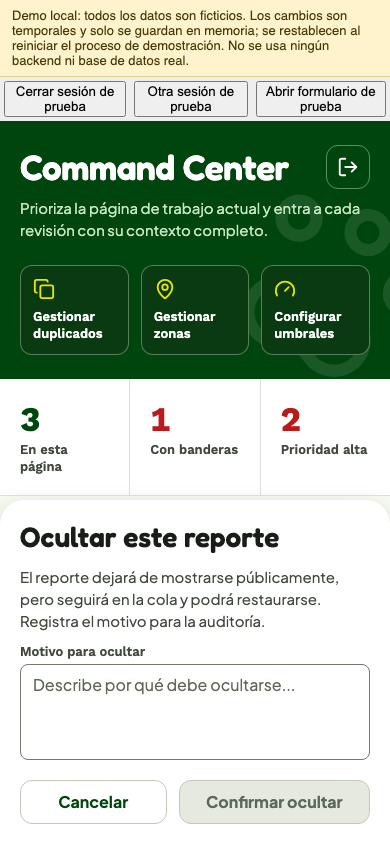
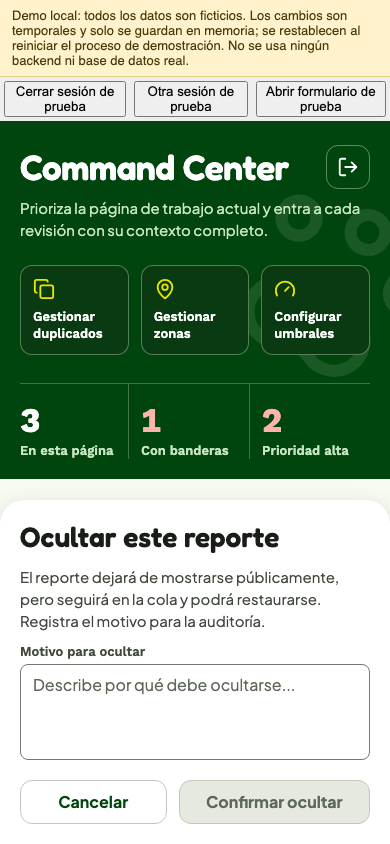
style(design): TD-134 Command Center: métricas dentro del encabezado verde y la cola empieza en zona clara

Changed region(s): [[0.0, 0.4313, 1.0, 0.5853]]

diff --git a/screens/CommandCenterScreen.js b/screens/CommandCenterScreen.js
@@ -175,13 +175,11 @@ export default function CommandCenterScreen({ accessToken, onOpenConfiguration, 
               {onOpenConfiguration ? <Tool icon="gauge" label={t('configuration.open')} onPress={onOpenConfiguration} /> : null}
             </View>
           ) : null}
-        </View>
-      </View>
-      <View style={styles.metricsBand}>
-        <View style={styles.metricsRow}>
-          <Metric label={t('moderation.onPage')} value={summary.total} />
-          <Metric label={t('moderation.flagged')} value={summary.flagged} alert />
-          <Metric label={t('moderation.urgent')} value={summary.urgent} alert last />
+          <View style={styles.metricsRow}>
+            <Metric label={t('moderation.onPage')} value={summary.total} />
+            <Metric label={t('moderation.flagged')} value={summary.flagged} alert />
+            <Metric label={t('moderation.urgent')} value={summary.urgent} alert last />
+          </View>
         </View>
       </View>
       <View style={styles.queueIntro}>
@@ -276,7 +274,7 @@ const styles = StyleSheet.create({
   content: { flexGrow: 1, backgroundColor: colors.background, paddingBottom: 32 },
   hero: { backgroundColor: colors.primary, overflow: 'hidden' },
   bigPaw: { position: 'absolute', right: -44, top: 56, opacity: 0.1, transform: [{ rotate: '-18deg' }] },
-  heroInner: { width: '100%', maxWidth: 960, alignSelf: 'center', paddingHorizontal: layout.margin, paddingTop: spacing.sm, paddingBottom: spacing.xxl, gap: spacing.sm },
+  heroInner: { width: '100%', maxWidth: 960, alignSelf: 'center', paddingHorizontal: layout.margin, paddingTop: spacing.sm, paddingBottom: spacing.xl, gap: spacing.sm },
   titleRow: { flexDirection: 'row', alignItems: 'center', justifyContent: 'space-between', gap: spacing.md, marginTop: spacing.lg },
   logout: { width: layout.minTouch, height: layout.minTouch, borderRadius: 12, alignItems: 'center', justifyContent: 'center', borderWidth: 1, borderColor: 'rgba(201,230,196,0.45)' },
   title: { flex: 1, fontFamily: fontFamily.display, fontSize: 35, lineHeight: 42, letterSpacing: -0.4, color: colors.onPrimary },
@@ -284,14 +282,13 @@ const styles = StyleSheet.create({
   tools: { flexDirection: 'row', gap: spacing.md, marginTop: spacing.lg },
   tool: { flex: 1, minHeight: 84, borderRadius: radius.md, borderWidth: 1, borderColor: 'rgba(201,230,196,0.4)', backgroundColor: colors.forestField, padding: spacing.md, gap: spacing.sm, justifyContent: 'space-between' },
   toolText: { fontFamily: fontFamily.label, fontSize: 13, lineHeight: 17, color: colors.onPrimary },
-  metricsBand: { backgroundColor: colors.surface, borderBottomWidth: 1, borderBottomColor: colors.border },
-  metricsRow: { flexDirection: 'row', width: '100%', maxWidth: 960, alignSelf: 'center' },
-  metric: { flex: 1, gap: 2, paddingVertical: spacing.xl, paddingHorizontal: layout.margin },
-  metricDivider: { borderRightWidth: 1, borderRightColor: colors.border },
-  metricValue: { fontFamily: fontFamily.number, fontVariant: ['tabular-nums'], fontSize: 34, lineHeight: 40, color: colors.primary },
-  metricValueHot: { color: colors.danger },
-  metricLabel: { fontFamily: fontFamily.label, fontSize: 13, lineHeight: 17, color: colors.inkMuted },
-  queueIntro: { marginHorizontal: layout.margin, marginTop: spacing.xxxl, marginBottom: spacing.xl, gap: spacing.sm },
+  metricsRow: { flexDirection: 'row', marginTop: spacing.xl, borderTopWidth: 1, borderTopColor: 'rgba(201,230,196,0.3)' },
+  metric: { flex: 1, gap: 2, paddingTop: spacing.lg, paddingRight: spacing.md },
+  metricDivider: { borderRightWidth: 1, borderRightColor: 'rgba(201,230,196,0.3)', marginRight: spacing.md },
+  metricValue: { fontFamily: fontFamily.number, fontVariant: ['tabular-nums'], fontSize: 34, lineHeight: 40, color: colors.onPrimary },
+  metricValueHot: { color: '#ffb4ab' },
+  metricLabel: { fontFamily: fontFamily.label, fontSize: 13, lineHeight: 17, color: colors.onForest },
+  queueIntro: { marginHorizontal: layout.margin, marginTop: spacing.xxl, marginBottom: spacing.xl, gap: spacing.sm },
   queueTitle: { fontFamily: fontFamily.display, fontSize: 26, lineHeight: 32, color: colors.primary },
   pageScope: { ...type.caption, color: colors.inkMuted },
   gridRow: { gap: 1 },
